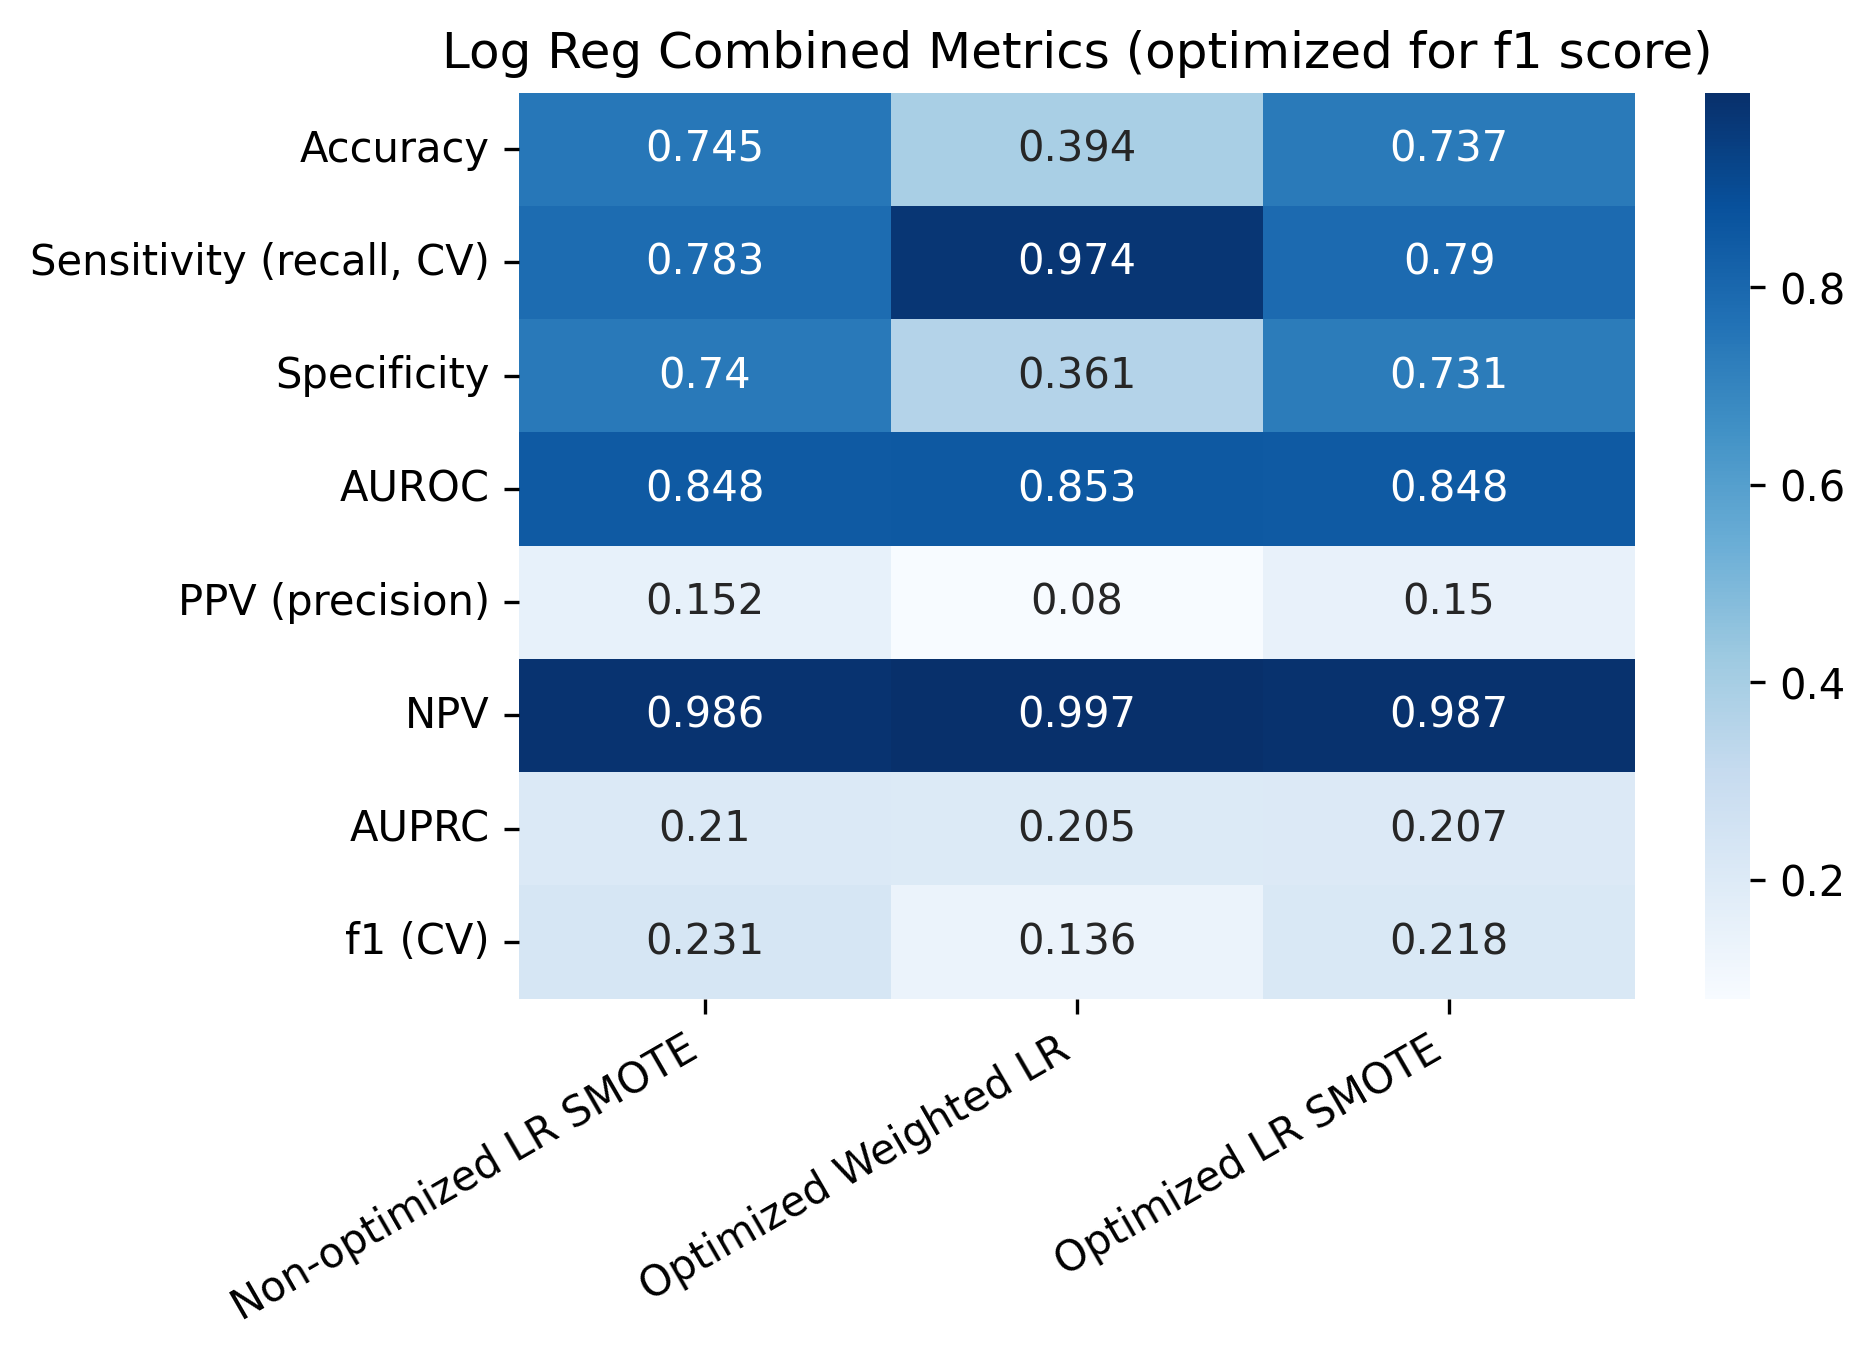
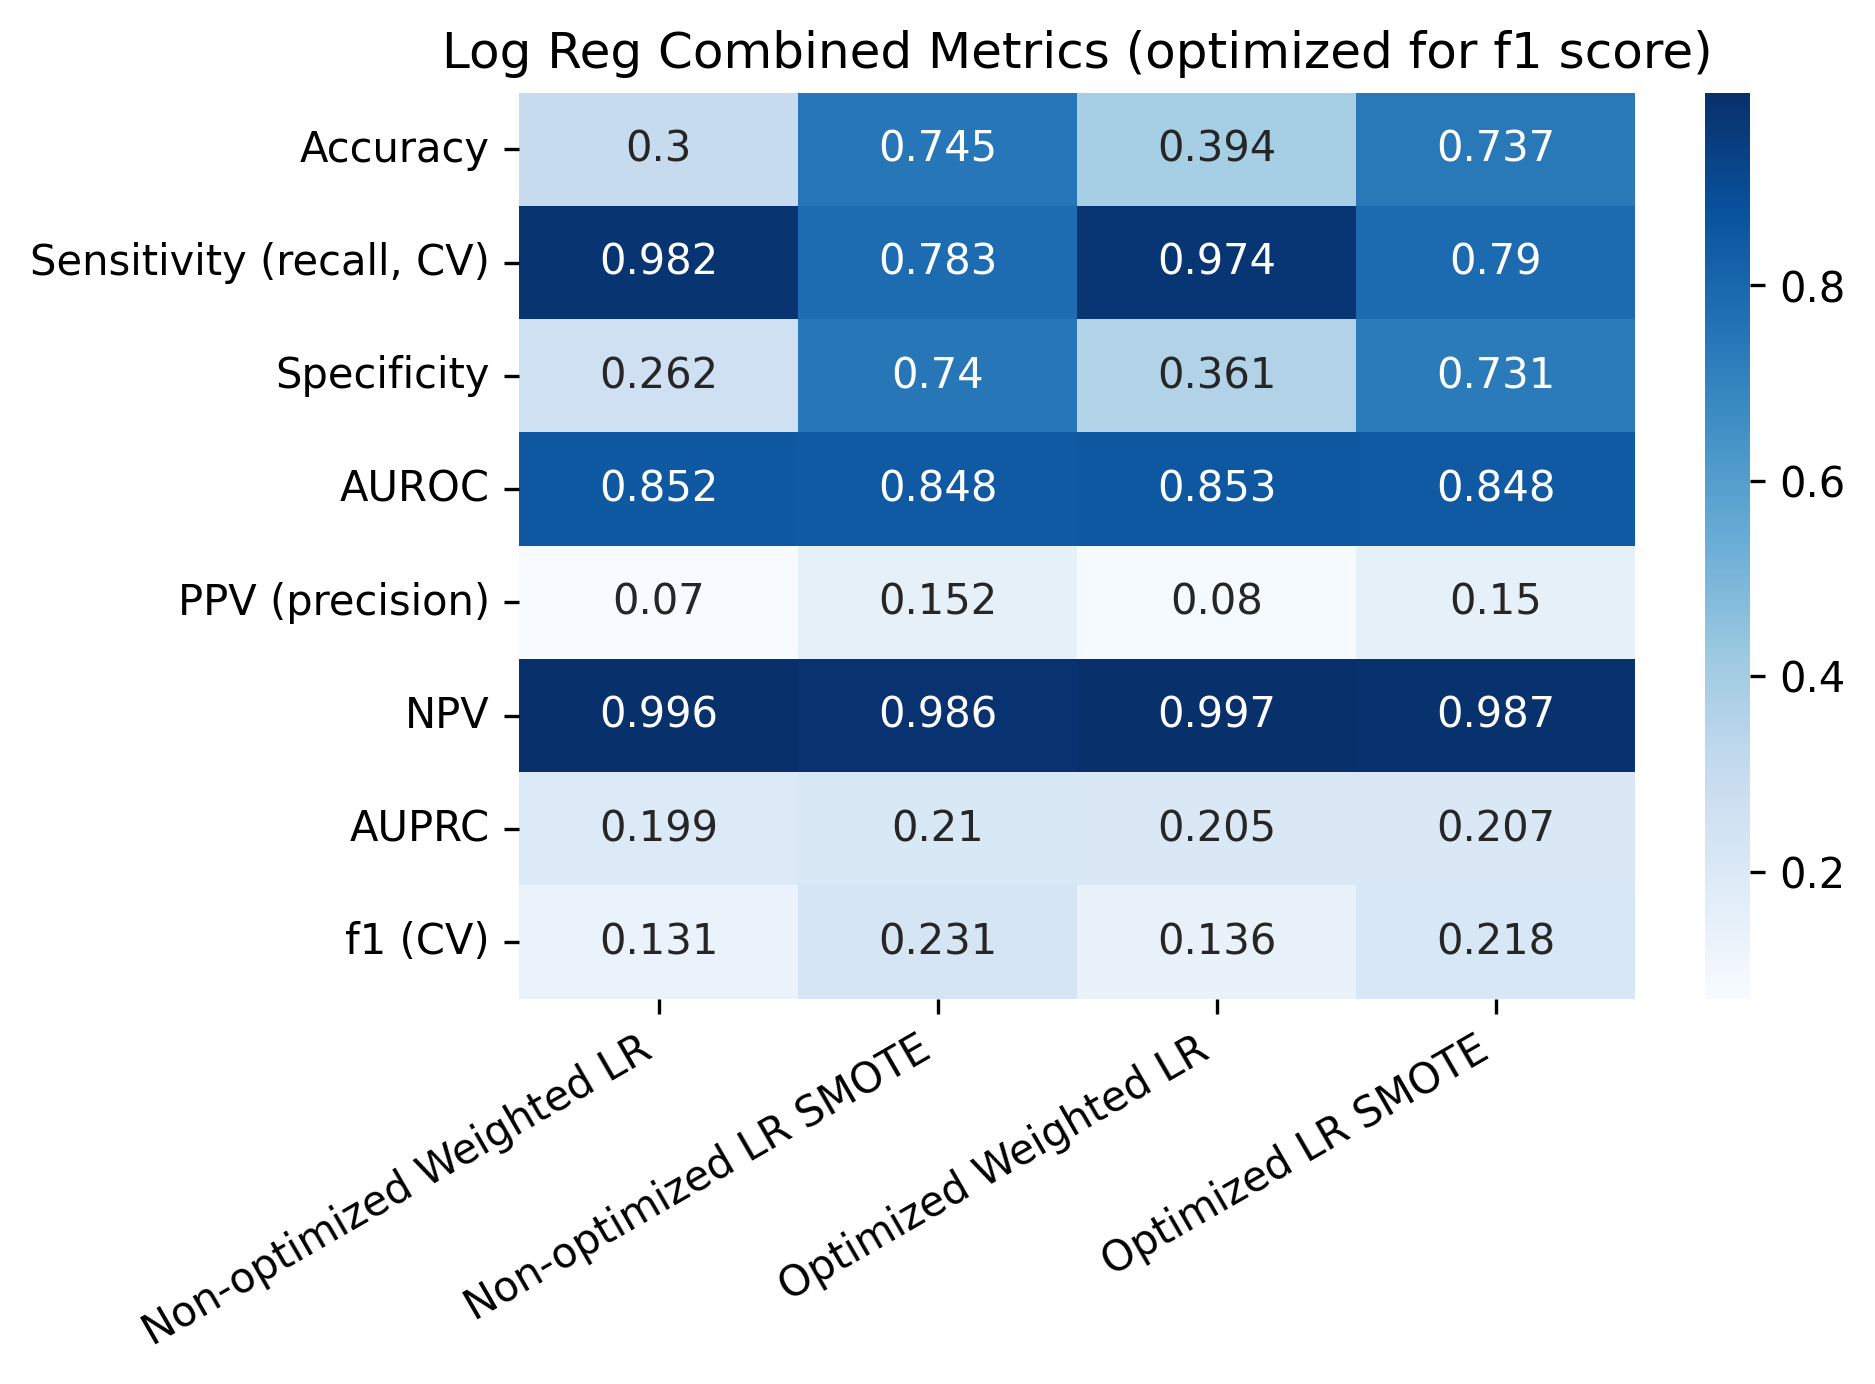
new plts

diff --git a/stroke_modeling.py b/stroke_modeling.py
@@ -924,11 +924,14 @@ return_results_lr_t_s.T
 # =============================
 # Combine all Log Reg results
 # =============================
-combined_lr = pd.concat([final_results.T['Logistic Regression'], return_results_lr.T, return_results_lr_t_s.T], axis=1, join='inner')
-combined_lr.columns = ['Non-optimized LR SMOTE', 'Optimized Weighted LR', 'Optimized LR SMOTE']
+old_weighted_lr = lr_final_results.T['LR (weighted)']
+old_weighted_lr.index = return_results_lr.T.index
+
+combined_lr = pd.concat([old_weighted_lr, final_results.T['Logistic Regression'], return_results_lr.T, return_results_lr_t_s.T], axis=1, join='inner')
+combined_lr.columns = ['Non-optimized Weighted LR', 'Non-optimized LR SMOTE', 'Optimized Weighted LR', 'Optimized LR SMOTE']
 sns.heatmap(data=combined_lr, annot=True, cmap="Blues", fmt=".3")
 plt.xticks(rotation=30, horizontalalignment='right')  # Rotate y-tick labels to be horizontal# Rotate x-axis tick labels so they don't overlap
-plt.title('LR Combined Metrics (optimized for f1 score)')
+plt.title('Log Reg Combined Metrics (optimized for f1 score)')
 #save_filename = 'combined_metrics_lr'
 #save_image(output_dir, save_filename, bbox_inches='tight')
 plt.show()
